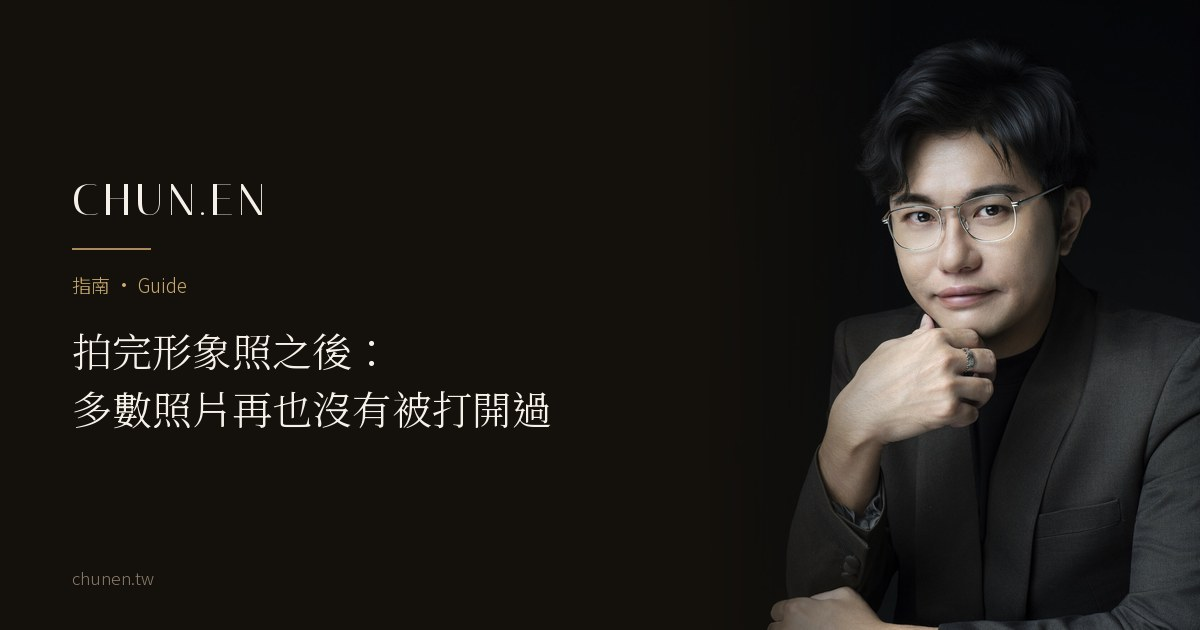
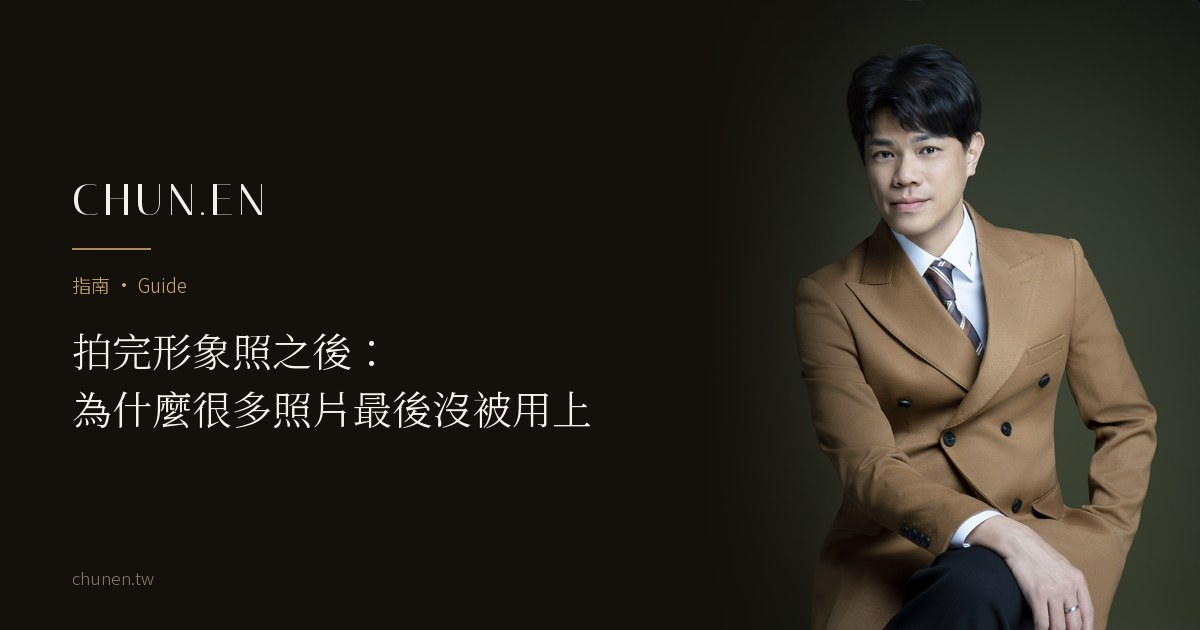
content(journal): after-the-shoot 擴寫三段、H1 改問題型、hero 統一成許景泰
擴寫（3,339 → 3,873 字，閱讀時間 4 → 6 分鐘）
- 新增「照片沒用上，常見的不只一個原因」：用途沒盤點／照片彼此太接近／
  當初設想的需求沒發生／人已經不是那天的你，並說明四種各自的下一步
- 新增「不是每一張精修照，都一定要被用完」：版位不存在就不必硬塞
- 新增結尾「現在就檢查一次手上的照片」四問
- 崗位段補一句：四類其實在解三種需求（認得出／撐得起版面／講得出情境）
- 開場收句改成不指定單一成因，與新增的四種原因一致
- FAQ 三題全部改寫，不再與正文逐句重複（原本重疊 55-62%）

H1 改問題型（「多數照片」沒有依據）
- 「拍完形象照之後：為什麼很多照片最後沒被用上」
- title／og／twitter／Article／Breadcrumb 五處＋五篇錨文字＋og 卡同步

hero 換成許景泰 DSC03904，與內文示意圖同一位客戶、同一次拍攝

未採納（理由記在對話）：三分法取代四分法（與 lead magnet 及示意圖衝突）、
拿掉「崗位」語言、C.photos／Signature 交付邊界改寫、改鎖「形象照怎麼用」。

Changed region(s): [[0.6167, 0.0, 1.0, 1.0], [0.0617, 0.6032, 0.4933, 0.6937]]

diff --git a/journal/after-the-shoot.html b/journal/after-the-shoot.html
@@ -4,14 +4,14 @@
   <meta charset="UTF-8" />
   <meta name="viewport" content="width=device-width, initial-scale=1.0, viewport-fit=cover" />
   <meta name="robots" content="noindex" /><!-- 草稿：Kay 審核後移除此行＋掛列表頁＋入 sitemap -->
-  <title>拍完形象照之後：多數照片再也沒有被打開過｜CHUN.EN 觀點</title>
+  <title>拍完形象照之後：為什麼很多照片最後沒被用上｜CHUN.EN 觀點</title>
   <meta name="description" content="花預算拍了一組精修形象照，最後卻只換了一張大頭貼？照片沒被用上，多半不是拍得不好，是拍之前沒先決定用在哪。整理官網、LinkedIn、簡報與媒體常見的十個使用位置。" />
   <meta name="theme-color" content="#14100B" />
   <link rel="icon" href="/favicon.ico" sizes="48x48" />
   <link rel="icon" href="/favicon-32.png" type="image/png" sizes="32x32" />
   <link rel="apple-touch-icon" href="/apple-touch-icon.png" />
   <link rel="canonical" href="https://chunen.tw/journal/after-the-shoot.html" />
-  <meta property="og:title" content="拍完形象照之後：多數照片再也沒有被打開過" />
+  <meta property="og:title" content="拍完形象照之後：為什麼很多照片最後沒被用上" />
   <meta property="og:description" content="拍得好，決定一組照片的上限；用得對，決定它真正發揮到哪裡。" />
   <meta property="og:image" content="https://chunen.tw/assets/og/after-the-shoot-og.jpg" />
   <meta property="og:image:width" content="1200" />
@@ -20,7 +20,7 @@
   <meta property="og:type" content="article" />
   <meta property="og:locale" content="zh_TW" />
   <meta name="twitter:card" content="summary_large_image" />
-  <meta name="twitter:title" content="拍完形象照之後：多數照片再也沒有被打開過" />
+  <meta name="twitter:title" content="拍完形象照之後：為什麼很多照片最後沒被用上" />
   <meta name="twitter:description" content="拍得好，決定一組照片的上限；用得對，決定它真正發揮到哪裡。" />
   <meta name="twitter:image" content="https://chunen.tw/assets/og/after-the-shoot-og.jpg" />
   <link rel="preconnect" href="https://fonts.googleapis.com" />
@@ -70,14 +70,14 @@
     <header style="padding: clamp(9rem, 16vh, 11rem) 0 clamp(2rem, 4vh, 3rem);">
       <div class="wrap article-wrap">
         <p class="hero-eyebrow rv">指南 · Guide</p>
-        <h1 class="rv rv-d1" style="font-weight: 300; font-size: clamp(1.9rem, 4.4vw, 3.2rem); line-height: 1.4; margin-top: 1rem;">拍完形象照之後：<br>多數照片<em style="font-style:normal;color:var(--gold-light);">再也沒有被打開過</em></h1>
-        <p class="article-meta rv rv-d2">CHUN.EN 觀點 · 2026 · 閱讀約 4 分鐘</p>
+        <h1 class="rv rv-d1" style="font-weight: 300; font-size: clamp(1.9rem, 4.4vw, 3.2rem); line-height: 1.4; margin-top: 1rem;">拍完形象照之後：<br><span style="white-space:nowrap;">為什麼很多照片</span><span style="white-space:nowrap;"><em style="font-style:normal;color:var(--gold-light);">最後沒被用上</em></span></h1>
+        <p class="article-meta rv rv-d2">CHUN.EN 觀點 · 2026 · 閱讀約 6 分鐘</p>
       </div>
     </header>
 
     <div class="wrap article-wrap">
       <div class="jcard-media rv" style="aspect-ratio: 16/9; overflow: hidden; margin-bottom: clamp(2.5rem, 6vh, 4rem);">
-        <img src="../assets/gallery/journal/after-the-shoot-hero-v1-1400.jpg" alt="深色背景的男性商務形象照，雙手交疊於桌面" style="width:100%;height:100%;object-fit:cover;object-position:center 20%;" />
+        <img src="../assets/gallery/journal/after-the-shoot-hero-v2-1400.jpg" alt="深綠色背景、駝色大衣的男性商務半身形象照，側身面向鏡頭" style="width:100%;height:100%;object-fit:cover;object-position:center 20%;" />
       </div>
 
       <div class="keypoints rv">
@@ -90,10 +90,17 @@
       </div>
 
       <div class="article-body rv">
-        <p class="article-lead">花了時間與預算，拿到一組精修的形象照，然後呢？很常見的情況是：先換掉社群頭像，其餘的存進雲端硬碟，等到下一次做官網、簡報或媒體資料時才想起來翻。<strong>照片最後沒被用上，多半不是拍得不好，是拍之前沒有先決定每一類照片要去哪裡。</strong></p>
+        <p class="article-lead">花了時間與預算，拿到一組精修的形象照，然後呢？很常見的情況是：先換掉社群頭像，其餘的存進雲端硬碟，等到下一次做官網、簡報或媒體資料時才想起來翻。<strong>照片最後沒被用上，多半不是拍得不好，而原因通常不只一個。</strong></p>
+
+        <h2>照片沒用上，常見的<em>不只一個原因</em></h2>
+        <p>第一種是用途沒有先盤點。拍攝那天只想著多拍幾張，拿到照片才發現官網要的是橫式留白，手上幾乎都是直式人物照。</p>
+        <p>第二種是照片彼此太接近。服裝、距離、表情與構圖幾乎沒有變化，看起來有二十張，真正能進到不同版位的只有兩三張。</p>
+        <p>第三種是當初設想的需求沒有發生。以為會需要大量社群素材，後來工作重心轉到演講與企業合作，那批素材就一直沒有出場的機會。</p>
+        <p>第四種是你已經不是拍攝那天的你。照片沒有壞，它只是還停在上一個階段。</p>
+        <p>先分清楚是哪一種，才知道下一步要做什麼：<strong>前兩種靠裁切與重新分配就能救回來，第三種是需求變了、不必勉強用完，第四種才真的該重拍。</strong></p>
 
         <h2>照片不會自己工作，需要被<em>指派任務</em></h2>
-        <p>每張照片都應該有明確的崗位：主視覺負責官網首頁與演講海報，識別照負責 LinkedIn、名片與 Email 簽名檔，情境照負責社群貼文、簡報內頁與媒體採訪，帶生活感的畫面則負責限時動態與專訪配圖。</p>
+        <p>每張照片都應該有明確的崗位：主視覺負責官網首頁與演講海報，識別照負責 LinkedIn、名片與 Email 簽名檔，情境照負責社群貼文、簡報內頁與媒體採訪，帶生活感的畫面則負責限時動態與專訪配圖。這四類其實在解三種需求：認得出你、撐得起版面、講得出你在做什麼，生活感是第三種的延伸。</p>
         <p>一張照片打天下的結果，是每個場合都差一點：<strong>頭像尺寸看不清情境照的張力，形象大圖又撐不起首頁的版面。</strong></p>
 
         <figure class="article-diagram">
@@ -108,14 +115,23 @@
         <p>官網團隊頁、LinkedIn、Google 商家檔案、LINE 官方帳號頭像、簡報模板、提案書、媒體資料袋、活動主辦方索取的講者照、書籍作者照、社群置頂貼文。把你的接觸點逐一盤點，你會發現需要的從來不是「一張好照片」，而是<strong>一套分工明確的影像庫</strong>。每個位置各要什麼構圖，〈<a href="portrait-deployment-map.html">一組照片的部署地圖</a>〉整理成一張表。</p>
         <blockquote>拍得好，決定一組照片的上限；用得對，決定它真正發揮到哪裡。</blockquote>
 
+        <h2>不是每一張精修照，都<em>一定要被用完</em></h2>
+        <p>一組影像的目的，不是讓每張照片都找到地方塞。有些照片現在沒有位置，是因為那個位置還不存在：你還沒開始接演講，也還沒有媒體來訪。</p>
+        <p>版位不存在的時候，不需要為了提高使用率硬把照片放上去。該問的是反過來的那一句：<strong>需要照片的時候，手上有沒有適合的版本？</strong>沒有的話，再決定是裁切、補拍，還是留到下一次拍攝一起規劃。</p>
+
         <h2>部署，從拍攝<em>之前</em>就開始</h2>
         <p>這正是用途盤點必須放在拍攝之前的原因：先知道照片要在哪些地方工作，才知道要拍直式還是橫式、要留多少留白給標題、要幾種服裝與表情的版本。在 CHUN.EN，這件事本來就在交付裡：照片給你的同時，會一併說明各平台的建議尺寸、比例與裁切重點；另外附一個部署模擬器，讓你在照片正式上線之前，先看它進到 LinkedIn、官網或簡報版位之後的樣子，調好構圖再直接輸出裁切完成的檔案。</p>
 
+        <h2>現在就檢查一次<em>手上的照片</em></h2>
+        <p>不用先數總共有幾張，先回答四個問題。</p>
+        <p>你現在最常被看見的三個位置是哪三個？每一個位置，有沒有一張真的適合的照片？缺的是比例與構圖，還是照片裡的人已經和現在的你不一樣？現有的照片裁切之後，能不能解決？</p>
+        <p>這四題答得出來，下一次拍攝就不必從零開始。</p>
+
         <h2>常見<em>問題</em></h2>
         <div class="faq">
-          <details><summary>拍完形象照之後該做什麼？<span class="mark">+</span></summary><div class="a">把每張照片指派明確的崗位。主視覺負責官網首頁與演講海報，識別照負責 LinkedIn、名片與 Email 簽名檔，情境照負責社群貼文、簡報內頁與媒體採訪，帶生活感的畫面負責限時動態與專訪配圖。一張照片打天下的結果，是每個場合都差一點。</div></details>
-          <details><summary>形象照可以用在哪些地方？<span class="mark">+</span></summary><div class="a">常被漏掉的部署點有十個：官網團隊頁、LinkedIn、Google 商家檔案、LINE 官方帳號頭像、簡報模板、提案書、媒體資料袋、活動主辦方索取的講者照、書籍作者照、社群置頂貼文。把接觸點逐一盤點，你會發現需要的從來不是一張好照片，而是一套分工明確的影像庫。</div></details>
-          <details><summary>為什麼要在拍攝之前就盤點用途？<span class="mark">+</span></summary><div class="a">因為先知道照片要在哪些地方工作，才知道要拍直式還是橫式、要留多少留白給標題、要幾種服裝與表情的版本。用途盤點放在拍攝之後，有些版本還能靠裁切救回來，有些就真的得等下一次補拍。</div></details>
+          <details><summary>拍完形象照之後該做什麼？<span class="mark">+</span></summary><div class="a">先列出你目前最常被看見的版位，例如官網、LinkedIn、簡報、媒體與社群。再把手上的照片對號入座，看哪些可以直接用、哪些裁切之後可以用、哪些位置確實還缺一張。不需要為了把照片用完而硬塞。</div></details>
+          <details><summary>形象照可以用在哪些地方？<span class="mark">+</span></summary><div class="a">常見的有十個：官網團隊頁、LinkedIn、Google 商家檔案、LINE 官方帳號頭像、簡報模板、提案書、媒體資料袋、講者照、書籍作者照與社群置頂貼文。實際需要哪幾個，依你的工作與公開情境而定，不是每個人都要十個都有。</div></details>
+          <details><summary>為什麼要在拍攝之前就盤點用途？<span class="mark">+</span></summary><div class="a">因為構圖是在現場決定的：直式還是橫式、留多少空間給標題、要幾種服裝與表情，都得在按快門之前就知道會用在哪裡。拍完才發現少了某個比例，有些能靠裁切救回來，有些就得等下一次補拍。</div></details>
         </div>
 
       </div>
@@ -164,9 +180,9 @@
   {
     "@context": "https://schema.org",
     "@type": "Article",
-    "headline": "拍完形象照之後：多數照片再也沒有被打開過",
+    "headline": "拍完形象照之後：為什麼很多照片最後沒被用上",
     "description": "照片沒被用上，多半不是拍得不好，是拍之前沒先決定用在哪。整理官網、LinkedIn、簡報與媒體常見的十個使用位置。",
-    "image": "https://chunen.tw/assets/gallery/journal/after-the-shoot-hero-v1-1400.jpg",
+    "image": "https://chunen.tw/assets/gallery/journal/after-the-shoot-hero-v2-1400.jpg",
     "author": {"@type": "Person", "@id": "https://chunen.tw/author/zoey-wu.html#zoey", "name": "吳惇恩", "alternateName": "Zoey Wu", "jobTitle": "Founder & Brand Director", "image": "https://chunen.tw/assets/images/zoey-author-640.jpg", "url": "https://chunen.tw/author/zoey-wu.html"},
     "publisher": {"@type": "Organization", "name": "CHUN.EN 形象美學", "logo": {"@type": "ImageObject", "url": "https://chunen.tw/icon-512.png"}},
     "datePublished": "2026-07-16",
@@ -183,9 +199,9 @@
     "@context": "https://schema.org",
     "@type": "FAQPage",
     "mainEntity": [
-      {"@type": "Question", "name": "拍完形象照之後該做什麼？", "acceptedAnswer": {"@type": "Answer", "text": "把每張照片指派明確的崗位。主視覺負責官網首頁與演講海報，識別照負責 LinkedIn、名片與 Email 簽名檔，情境照負責社群貼文、簡報內頁與媒體採訪，帶生活感的畫面負責限時動態與專訪配圖。一張照片打天下的結果，是每個場合都差一點。"}},
-      {"@type": "Question", "name": "形象照可以用在哪些地方？", "acceptedAnswer": {"@type": "Answer", "text": "常被漏掉的部署點有十個：官網團隊頁、LinkedIn、Google 商家檔案、LINE 官方帳號頭像、簡報模板、提案書、媒體資料袋、活動主辦方索取的講者照、書籍作者照、社群置頂貼文。把接觸點逐一盤點，你會發現需要的從來不是一張好照片，而是一套分工明確的影像庫。"}},
-      {"@type": "Question", "name": "為什麼要在拍攝之前就盤點用途？", "acceptedAnswer": {"@type": "Answer", "text": "因為先知道照片要在哪些地方工作，才知道要拍直式還是橫式、要留多少留白給標題、要幾種服裝與表情的版本。用途盤點放在拍攝之後，有些版本還能靠裁切救回來，有些就真的得等下一次補拍。"}}
+      {"@type": "Question", "name": "拍完形象照之後該做什麼？", "acceptedAnswer": {"@type": "Answer", "text": "先列出你目前最常被看見的版位，例如官網、LinkedIn、簡報、媒體與社群。再把手上的照片對號入座，看哪些可以直接用、哪些裁切之後可以用、哪些位置確實還缺一張。不需要為了把照片用完而硬塞。"}},
+      {"@type": "Question", "name": "形象照可以用在哪些地方？", "acceptedAnswer": {"@type": "Answer", "text": "常見的有十個：官網團隊頁、LinkedIn、Google 商家檔案、LINE 官方帳號頭像、簡報模板、提案書、媒體資料袋、講者照、書籍作者照與社群置頂貼文。實際需要哪幾個，依你的工作與公開情境而定，不是每個人都要十個都有。"}},
+      {"@type": "Question", "name": "為什麼要在拍攝之前就盤點用途？", "acceptedAnswer": {"@type": "Answer", "text": "因為構圖是在現場決定的：直式還是橫式、留多少空間給標題、要幾種服裝與表情，都得在按快門之前就知道會用在哪裡。拍完才發現少了某個比例，有些能靠裁切救回來，有些就得等下一次補拍。"}}
     ]
   }
   </script>
@@ -210,7 +226,7 @@
       {
         "@type": "ListItem",
         "position": 3,
-        "name": "拍完形象照之後：多數照片再也沒有被打開過",
+        "name": "拍完形象照之後：為什麼很多照片最後沒被用上",
         "item": "https://chunen.tw/journal/after-the-shoot.html"
       }
     ]

diff --git a/journal/portrait-deployment-map.html b/journal/portrait-deployment-map.html
@@ -119,7 +119,7 @@
         <h2>部署的紀律：什麼<em>可以不同</em>，什麼不能</h2>
         <p>這麼多版位、這麼多版本，聽起來很分裂？不會，只要它們來自同一次定位。</p>
         <p>可以不同的是構圖、比例、遠近與場景；不能不同的是本人辨識、服裝的正式程度、影像質感，以及姓名職稱這些對外資訊。同一套色彩邏輯、同一種光線語言、同一個角色設定下拍出的不同構圖，觀者在不同平台反覆遇見你時，得到的是同一個印象，一次比一次清楚；反之，東拼西湊的照片（三年前的婚宴照＋去年的自拍＋今年的棚拍），每出現一次都要對方重新認一次人。不同時期拍的照片可以並存，只要差距不會讓人以為是不同的人、不同的階段。</p>
-        <p>這也是為什麼部署要在<strong>拍攝之前</strong>就規劃：先盤點你會被看見的場景，回推需要哪些構圖與版本，把最重要的那幾個排進當天的拍攝。拍完才想「這張能用在哪」，順序就反了，這也是<a href="after-the-shoot.html">拍完形象照之後：多數照片再也沒有被打開過</a>的原因。</p>
+        <p>這也是為什麼部署要在<strong>拍攝之前</strong>就規劃：先盤點你會被看見的場景，回推需要哪些構圖與版本，把最重要的那幾個排進當天的拍攝。拍完才想「這張能用在哪」，順序就反了，這也是<a href="after-the-shoot.html">拍完形象照之後：為什麼很多照片最後沒被用上</a>的原因。</p>
 
         <figure class="article-fig crop45">
           <img src="../assets/gallery/journal/portrait-deployment-map-set-1400.jpg" alt="長凳坐姿的商務人物照，人物置於室內環境中" loading="lazy" />
@@ -158,7 +158,7 @@
 
       <div class="related rv">
         <p class="related-t">相關閱讀 · Related</p>
-        <a href="after-the-shoot.html">拍完形象照之後：多數照片再也沒有被打開過</a>
+        <a href="after-the-shoot.html">拍完形象照之後：為什麼很多照片最後沒被用上</a>
         <a href="image-asset-or-expense.html">你的形象是資產還是費用？一張照片的攤提思維</a>
         <a href="portrait-vs-personal-brand.html">形象照 vs 個人品牌形象照，差在哪</a>
       </div>

diff --git a/journal/speaker-trainer-portrait.html b/journal/speaker-trainer-portrait.html
@@ -166,7 +166,7 @@
         <p class="related-t">相關閱讀 · Related</p>
         <a href="which-version-of-you.html">先想清楚，要讓人看見哪一面</a>
         <a href="executive-portrait-trust.html">企業主管形象照的信任訊號</a>
-        <a href="after-the-shoot.html">拍完形象照之後：多數照片再也沒有被打開過</a>
+        <a href="after-the-shoot.html">拍完形象照之後：為什麼很多照片最後沒被用上</a>
       </div>
 
       <p class="rv" style="margin-top: 2.5rem;"><a href="/journal/" style="color: var(--muted-bright); font-size: 0.85rem; letter-spacing: 0.1em;">← 回到專欄</a></p>

diff --git a/journal/why-your-photo-isnt-working.html b/journal/why-your-photo-isnt-working.html
@@ -133,7 +133,7 @@
 
       <div class="related rv">
         <p class="related-t">相關閱讀 · Related</p>
-        <a href="after-the-shoot.html">拍完形象照之後：多數照片再也沒有被打開過</a>
+        <a href="after-the-shoot.html">拍完形象照之後：為什麼很多照片最後沒被用上</a>
         <a href="positioning-decides-portrait.html">一張形象照，先決定角色，再決定畫面</a>
               <a href="portrait-vs-personal-brand.html">形象照與個人品牌形象照差在哪</a>
       </div>

diff --git a/journal/when-to-update-your-portrait.html b/journal/when-to-update-your-portrait.html
@@ -142,7 +142,7 @@
 
       <div class="related rv">
         <p class="related-t">相關閱讀 · Related</p>
-        <a href="after-the-shoot.html">拍完形象照之後：多數照片再也沒有被打開過</a>
+        <a href="after-the-shoot.html">拍完形象照之後：為什麼很多照片最後沒被用上</a>
         <a href="why-your-photo-isnt-working.html">為什麼你的照片，沒有幫你接到案子？</a>
               <a href="portrait-vs-personal-brand.html">單張照片與影像系統的差別</a>
       </div>

diff --git a/journal/image-asset-or-expense.html b/journal/image-asset-or-expense.html
@@ -158,7 +158,7 @@
       <div class="related rv">
         <p class="related-t">相關閱讀 · Related</p>
         <a href="why-prices-differ.html">價格差十倍的形象照，到底差在哪？</a>
-        <a href="after-the-shoot.html">拍完形象照之後：多數照片再也沒有被打開過</a>
+        <a href="after-the-shoot.html">拍完形象照之後：為什麼很多照片最後沒被用上</a>
         <a href="when-to-update-your-portrait.html">形象照多久該更新一次？五個訊號</a>
       </div>
 
